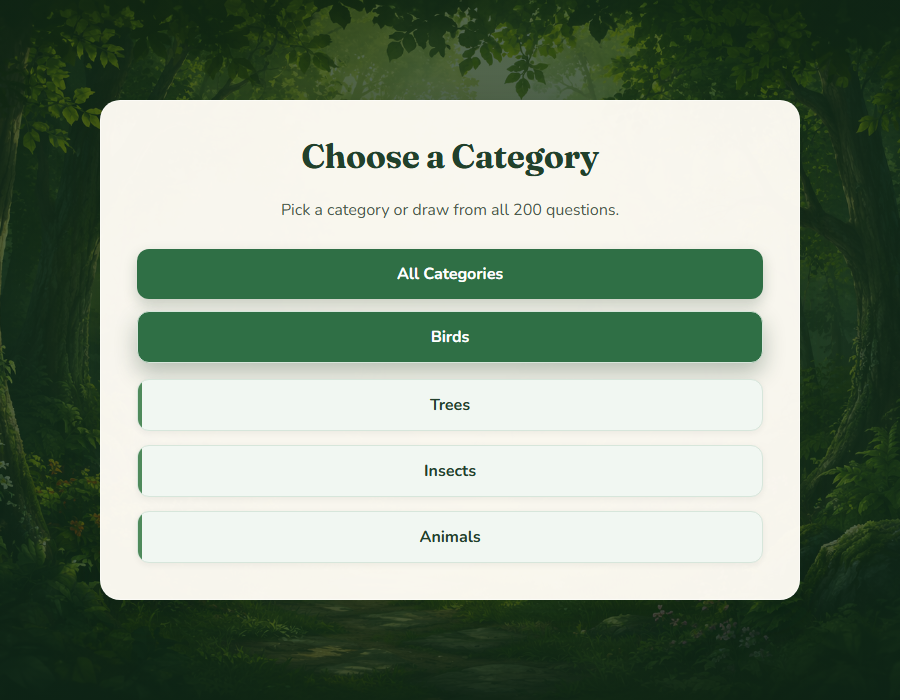
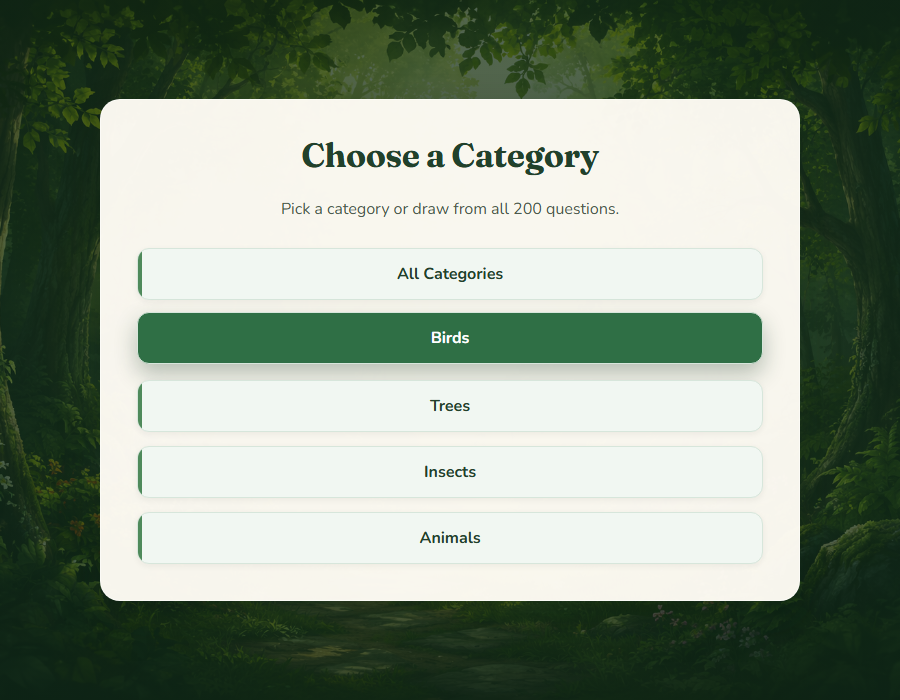
Unify category options with the quiz answer style
Make every category an equal card with the same accent treatment as the
quiz answers, instead of a solid-green "All Categories" sitting above the
rest. The two screens now share one option pattern and no option reads as
pre-selected.

diff --git a/templates/category.html b/templates/category.html
@@ -8,7 +8,7 @@
 
 <form method="POST" action="{{ url_for('choose_category') }}">
     <div class="answers">
-        <button class="main-button" name="category" value="All">All Categories</button>
+        <button class="answer-button" name="category" value="All">All Categories</button>
         <button class="answer-button" name="category" value="Birds">Birds</button>
         <button class="answer-button" name="category" value="Trees">Trees</button>
         <button class="answer-button" name="category" value="Insects">Insects</button>
